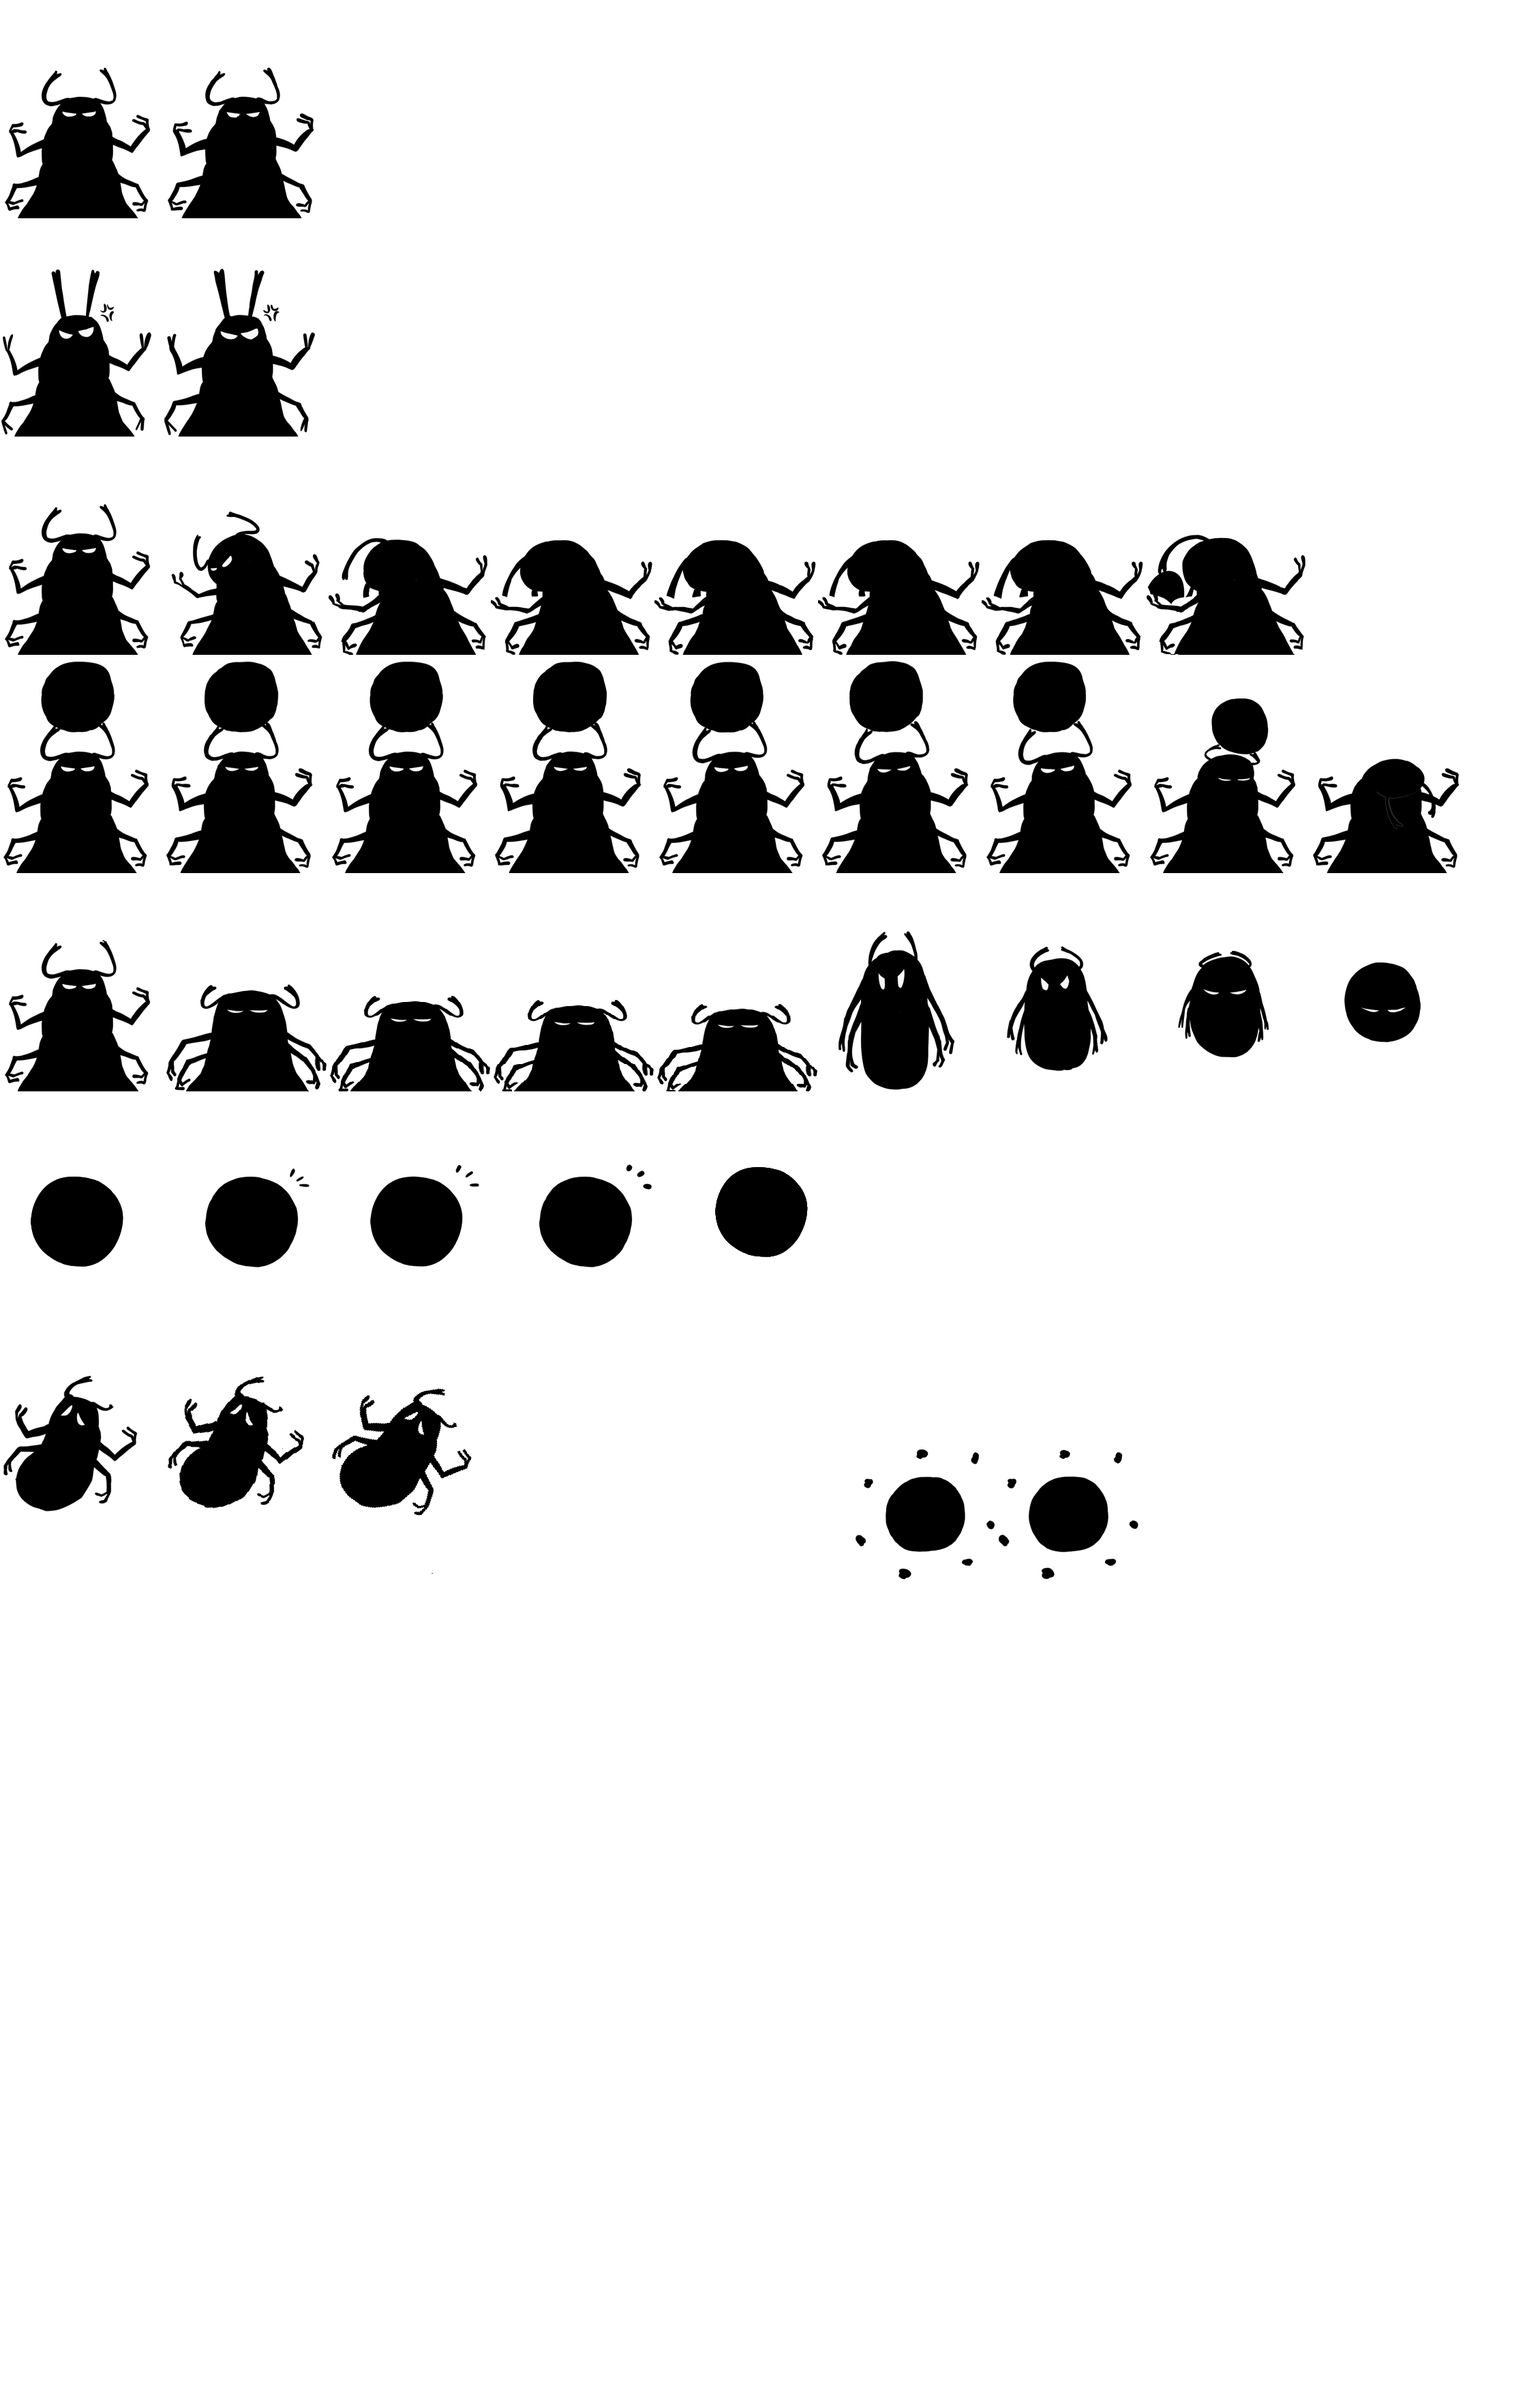
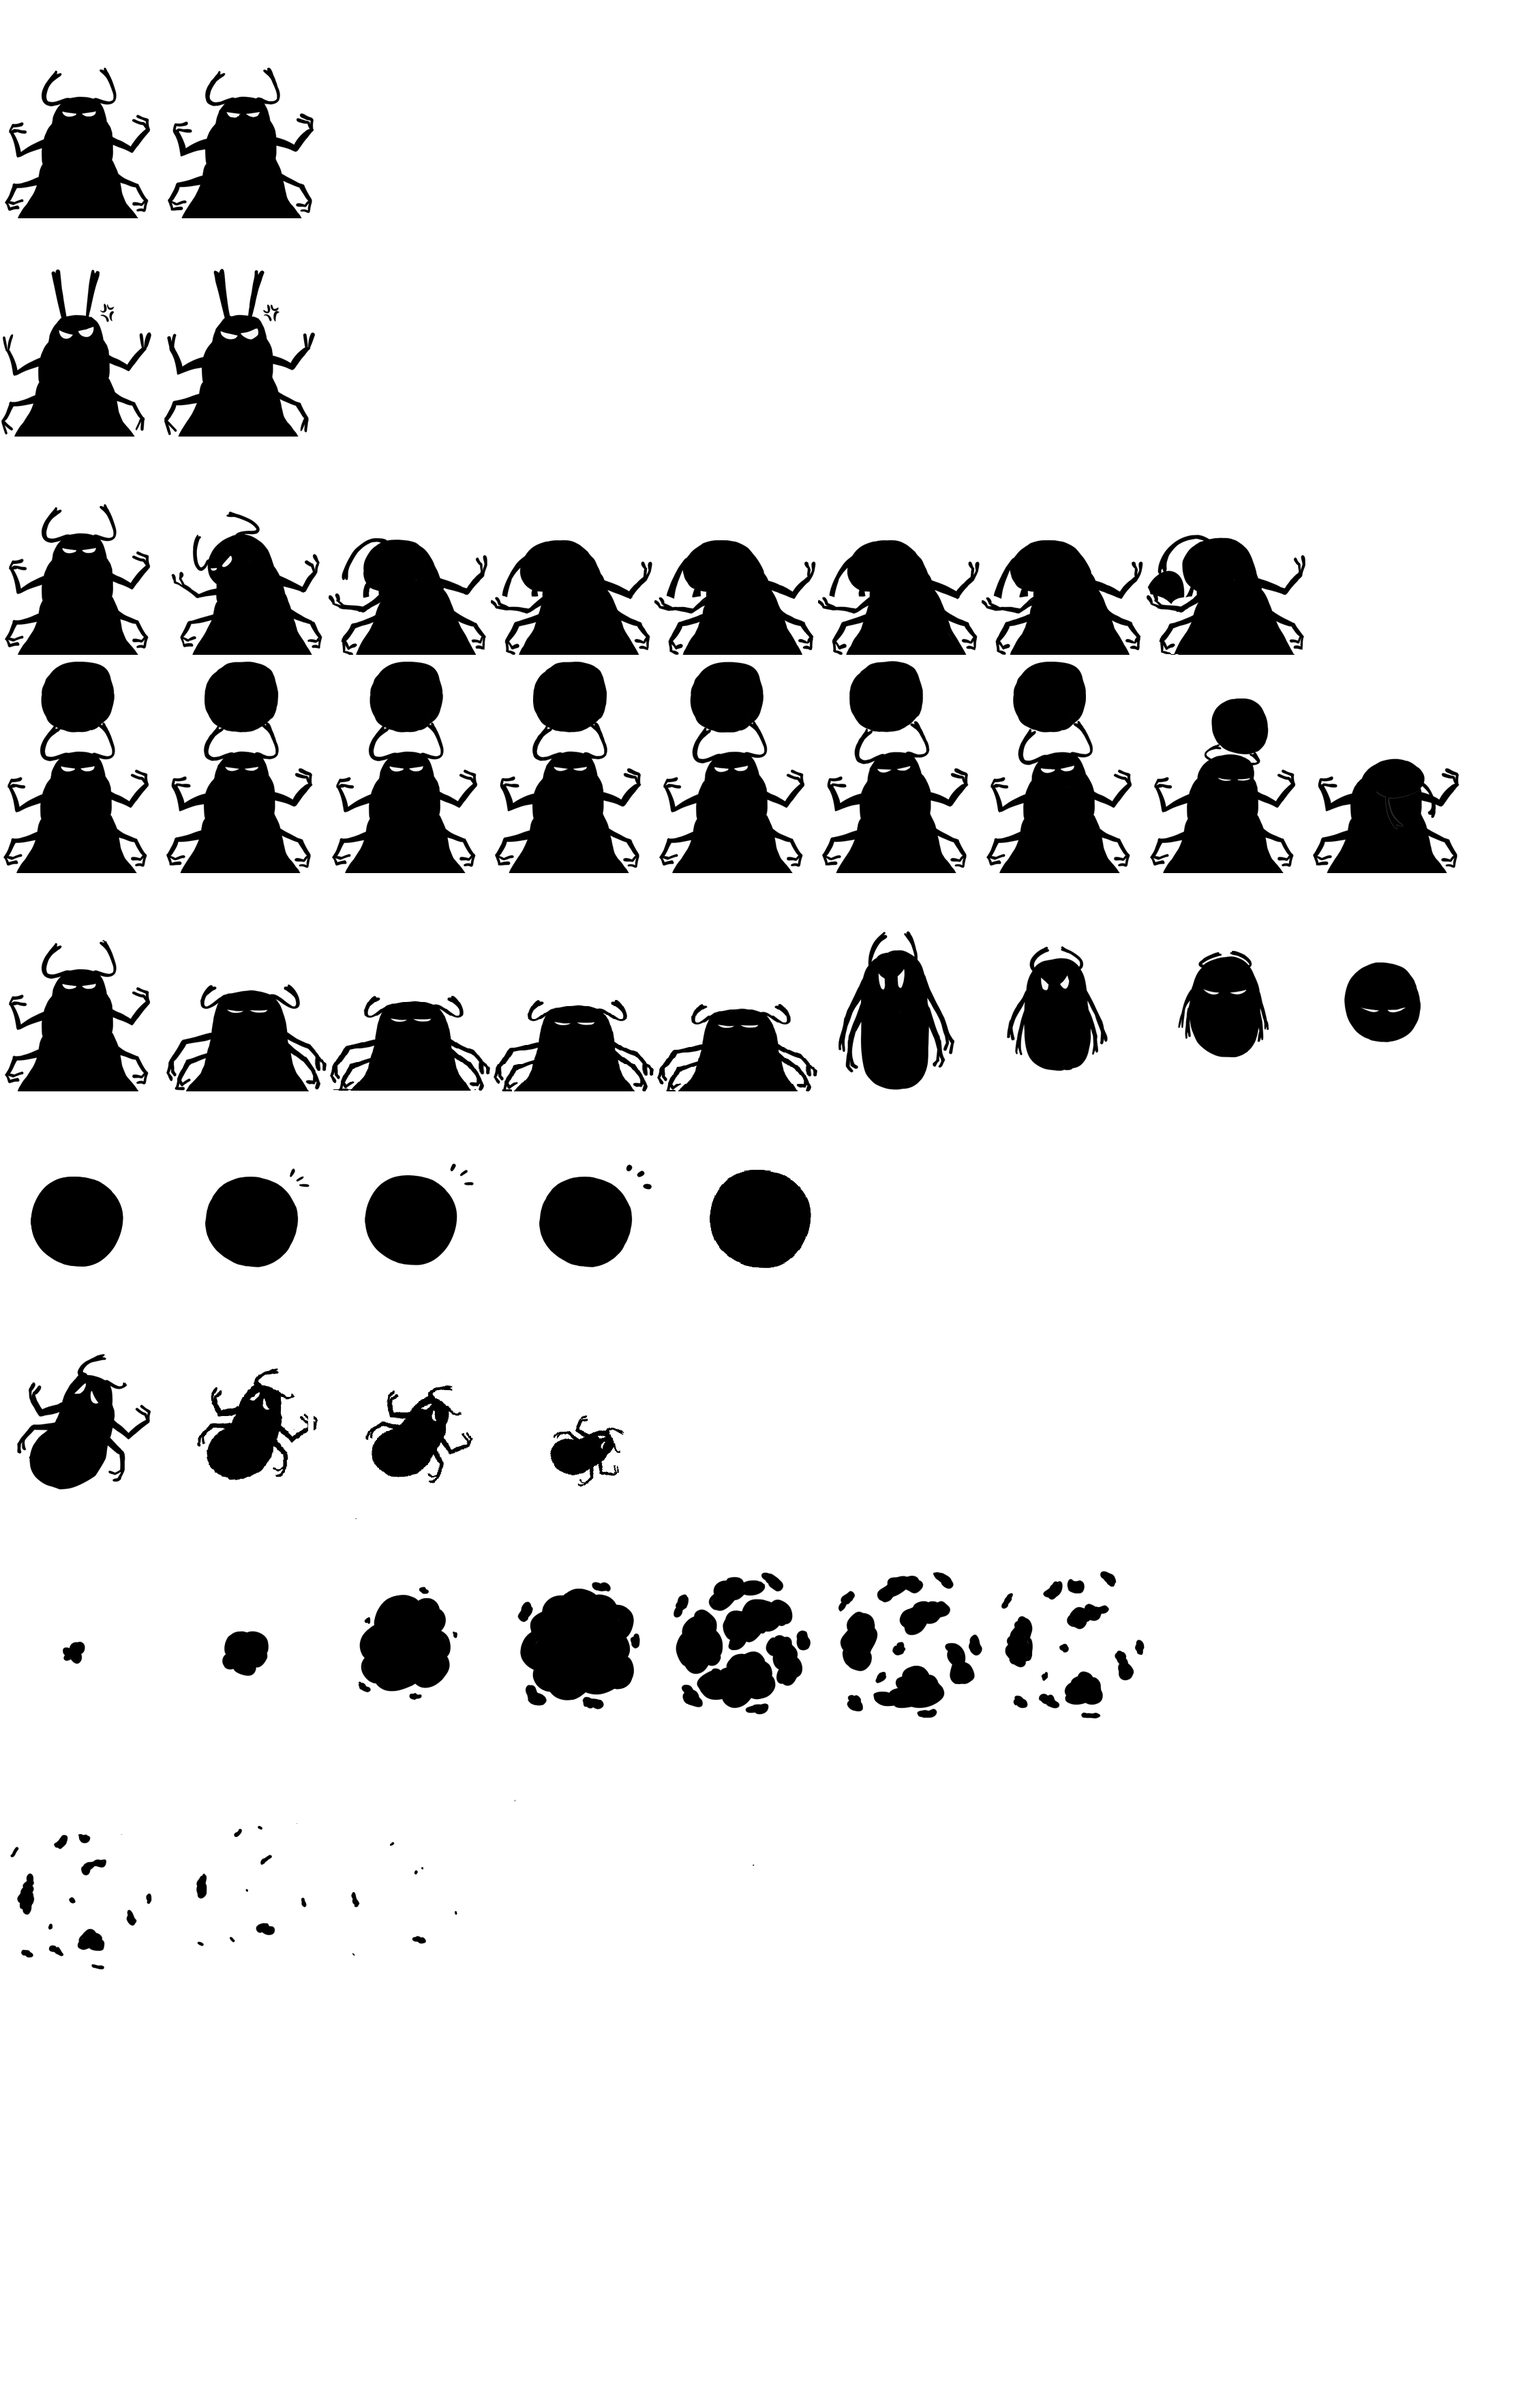
DungBeetle Anims & Logic

diff --git a/Output/src/DungBeetle.cpp b/Output/src/DungBeetle.cpp
@@ -34,8 +34,8 @@ bool DungBeetle::Start() {
             throwingAnim.LoadAnimations(node.child("throwing"));
             ballModeAnim.LoadAnimations(node.child("ballMode"));
             ballAnim.LoadAnimations(node.child("ball"));
-            hitAnim.LoadAnimations(node.child("hit"));
-            dieAnim.LoadAnimations(node.child("death"));
+            deathAnim.LoadAnimations(node.child("death"));
+
             currentAnimation = &idleAnim;
             break;
         }
@@ -78,8 +78,7 @@ bool DungBeetle::Update(float dt) {
 }
 
 bool DungBeetle::PostUpdate() {
-    if (currentState == DungBeetleState::DEAD && currentAnimation->HasFinished())
-    {
+    if (currentState == DungBeetleState::HIT && currentAnimation->HasFinished()) {
         pbody->body->GetFixtureList()->SetSensor(true);
         Engine::GetInstance().entityManager->DestroyEntity(this);
     }
@@ -100,8 +99,6 @@ void DungBeetle::OnCollision(PhysBody* physA, PhysBody* physB) {
         if (currentState == DungBeetleState::BALLMODE) {
             Bounce();
         }
-        if (currentState == DungBeetleState::HIT && currentAnimation->HasFinished())
-            currentState = DungBeetleState::DEAD;
         break;
     case ColliderType::PLAYER:
         // TODO TONI --- DETECTAR COLISION!
@@ -123,7 +120,6 @@ void DungBeetle::CheckState(float dt)
     case DungBeetleState::THROW: Throw(dt); break;
     case DungBeetleState::BALLMODE: BallMode();  break;
     case DungBeetleState::HIT: Hit(); break;
-    case DungBeetleState::DEAD:currentAnimation = &dieAnim; break;
     }
 }
 void DungBeetle::Idle()
@@ -136,10 +132,8 @@ void DungBeetle::Idle()
     {
         currentState = DungBeetleState::ANGRY;
     }
-
     lastPuzzleState = currentStatePuzzle;
 }
-
 
 void DungBeetle::Angry()
 {
@@ -159,7 +153,7 @@ void DungBeetle::Throw(float dt)
     if (currentAnimation->HasFinished())
     {
         if (!hasThrown && ballsThrown < 2) {
-            float angle = ((float)rand() / RAND_MAX) * (7.0f * M_PI / 4.0f - 5.0f * M_PI / 4.0f) + (5.0f * M_PI / 4.0f);
+            float angle = ((float)rand() / RAND_MAX) * (5.0f * M_PI / 6.0f - M_PI / 6.0f) + M_PI / 6.0f + M_PI / 2.0f;
             b2Vec2 dir(cosf(angle), sinf(angle));
             dir.Normalize();
 
@@ -209,17 +203,14 @@ void DungBeetle::Hit() {
     pbody->body->SetLinearVelocity(b2Vec2_zero);
     pbody->body->SetAngularVelocity(0);
 
-    currentAnimation = &hitAnim;
-
-    if (currentAnimation->HasFinished()) { currentState = DungBeetleState::DEAD; }
-
+    currentAnimation = &deathAnim;
 }
 void DungBeetle::ChangeBodyType() {
         pbody->body->SetType(b2_dynamicBody);
         isDynamic = true;
 }
 int DungBeetle::CheckPuzzleState() {
-    int PuzzlesDone = 3; // TODO OSCAR --- CURRENT PRESSED PLATES
+    int PuzzlesDone = 2; // TODO OSCAR --- CURRENT PRESSED PLATES
     return PuzzlesDone;
 
 }

diff --git a/Output/src/DungBeetle.h b/Output/src/DungBeetle.h
@@ -9,7 +9,6 @@ enum class DungBeetleState {
     THROW,
     BALLMODE,
 	HIT,
-	DEAD,
 };
 
 class DungBeetle : public Enemy {
@@ -42,8 +41,8 @@ private:
     int ballsThrown = 0;
     int currentStatePuzzle = 0;
     int lastPuzzleState = 0;
-    float throwSpeed = 15.0f; 
-    float ballModeSpeed = 17.0f;
+    float throwSpeed = 17.0f; 
+    float ballModeSpeed = 18.0f;
 
     Vector2D playerPos;
     DungBeetleState currentState = DungBeetleState::IDLE;
@@ -53,6 +52,5 @@ private:
     Animation throwingAnim;
     Animation ballModeAnim;
     Animation ballAnim;
-    Animation hitAnim;
-    Animation dieAnim;
+    Animation deathAnim;
 };

diff --git a/Output/src/DungBeetleBall.cpp b/Output/src/DungBeetleBall.cpp
@@ -109,6 +109,7 @@ void DungBeetleBall::OnCollision(PhysBody* physA, PhysBody* physB)
     switch (physB->ctype)
     {
     case ColliderType ::ATTACK:
+    case ColliderType::ENEMY:
     case ColliderType::PLATFORM:
     case ColliderType::WALL:
         Bounce();

diff --git a/Output/src/Scene.cpp b/Output/src/Scene.cpp
@@ -53,7 +53,7 @@ bool Scene::Awake()
 bool Scene::Start()
 {
 	//L06 TODO 3: Call the function to load the map. 
-	Engine::GetInstance().map->Load("Assets/Maps/", "Map1.tmx");
+	Engine::GetInstance().map->Load("Assets/Maps/", "Testing.tmx");
 	return true;
 }
 

diff --git a/Output/src/Broodheart.cpp b/Output/src/Broodheart.cpp
@@ -59,7 +59,6 @@ bool Broodheart::Start() {
         filter.maskBits = CATEGORY_PLATFORM | CATEGORY_WALL | CATEGORY_ATTACK | CATEGORY_PLAYER_DAMAGE;
         fixture->SetFilterData(filter);
     }
-
     return true;
 }
 

diff --git a/Output/src/Player.cpp b/Output/src/Player.cpp
@@ -21,7 +21,7 @@ Player::Player() : Entity(EntityType::PLAYER)
 Player::~Player() {}
 
 bool Player::Awake() {
-	position = Vector2D(1700, 900);
+	position = Vector2D(500, 300);
 	return true;
 }
 

diff --git a/Output/src/Physics.h b/Output/src/Physics.h
@@ -40,6 +40,7 @@
 #define CATEGORY_HOOK_SENSOR	  21
 #define CATEGORY_HOOK			  22
 #define CATEGORY_LIANA			  23
+#define	CATEGORY_PROJECTILE		  24
 
 // types of bodies
 enum bodyType {
